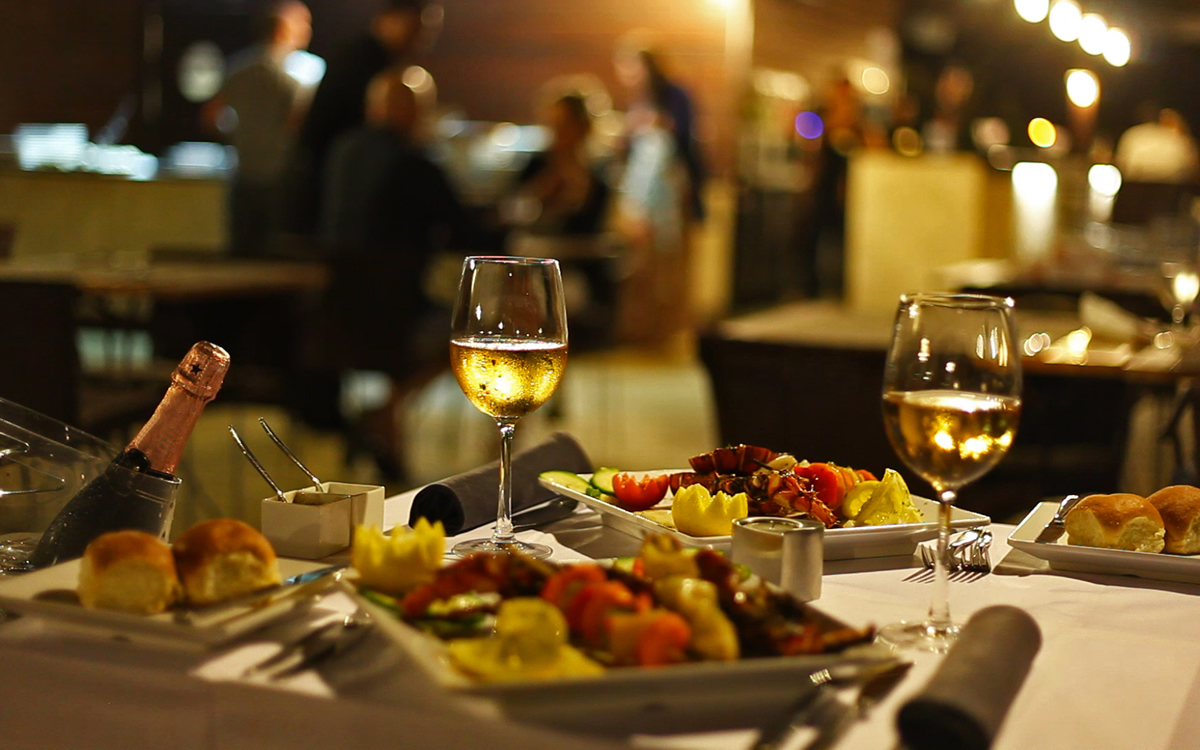
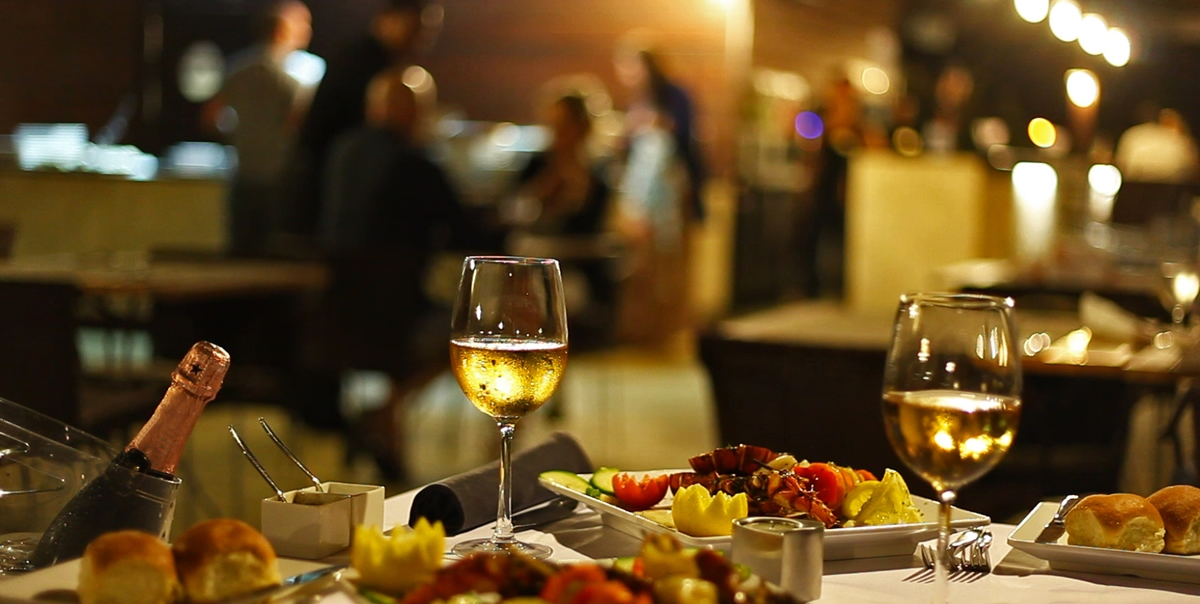
back pic

diff --git a/public/project/css/style.css b/public/project/css/style.css
@@ -70,15 +70,16 @@ body {
     width: 100%;
     height: auto;
     background-position: center;
-    position: absolute;
+    background-size: cover;
+    position: relative;
 }
 .back-pic{
     background-image: url(restaurant2.jpg);
-    background-size: cover;
-    width: 100%;
-    height: auto;
-    background-position: center;
-    position: relative;
+    /*background-size: cover;*/
+    /*width: 100%;*/
+    /*height: auto;*/
+    /*background-position: center;*/
+    /*position: relative;*/
 }
 
 .restaurant-detail{
